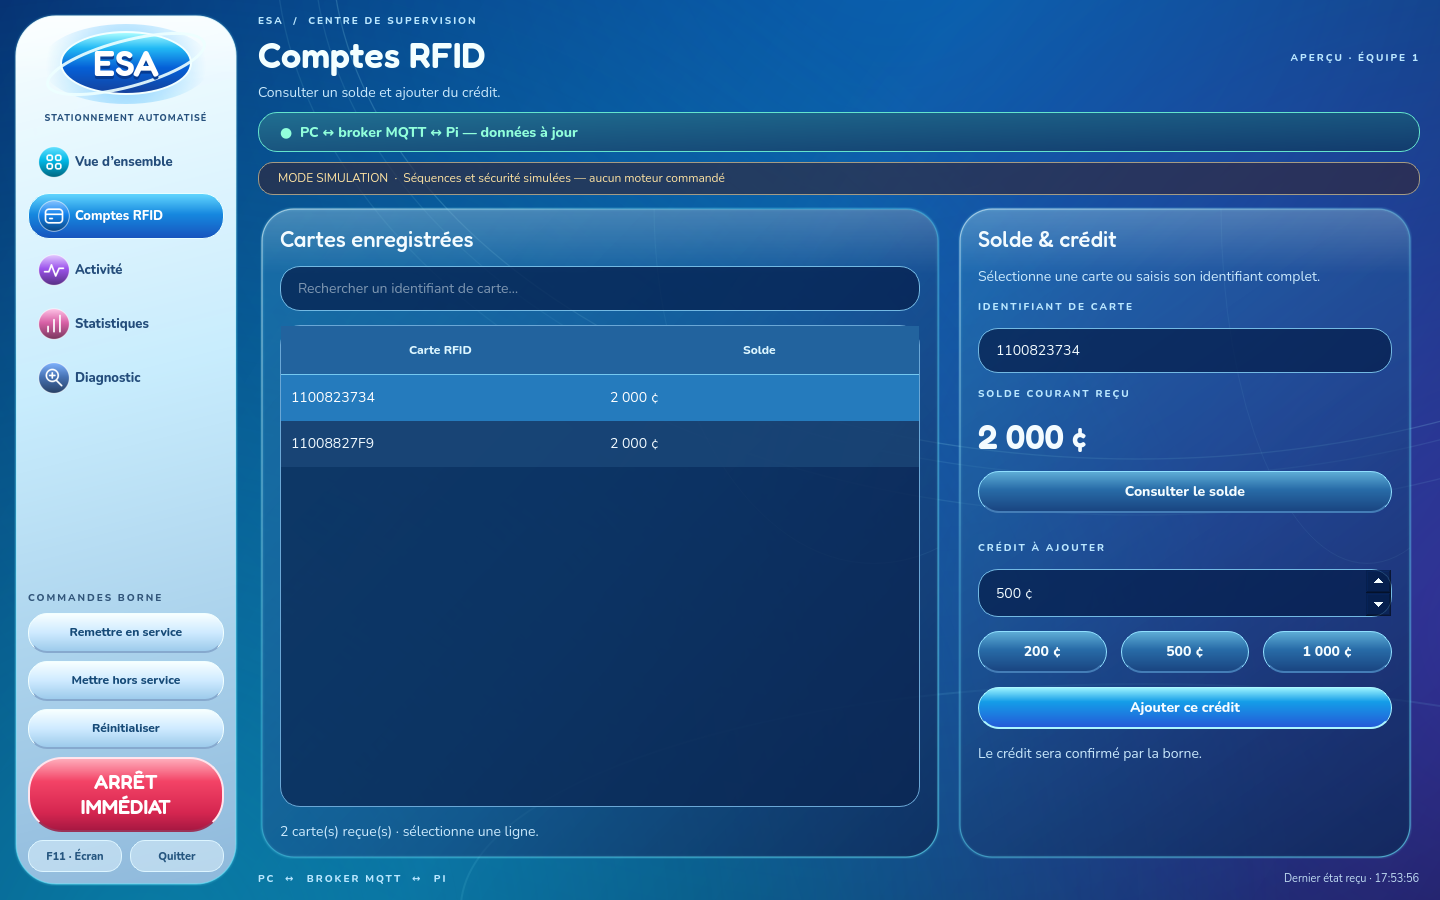
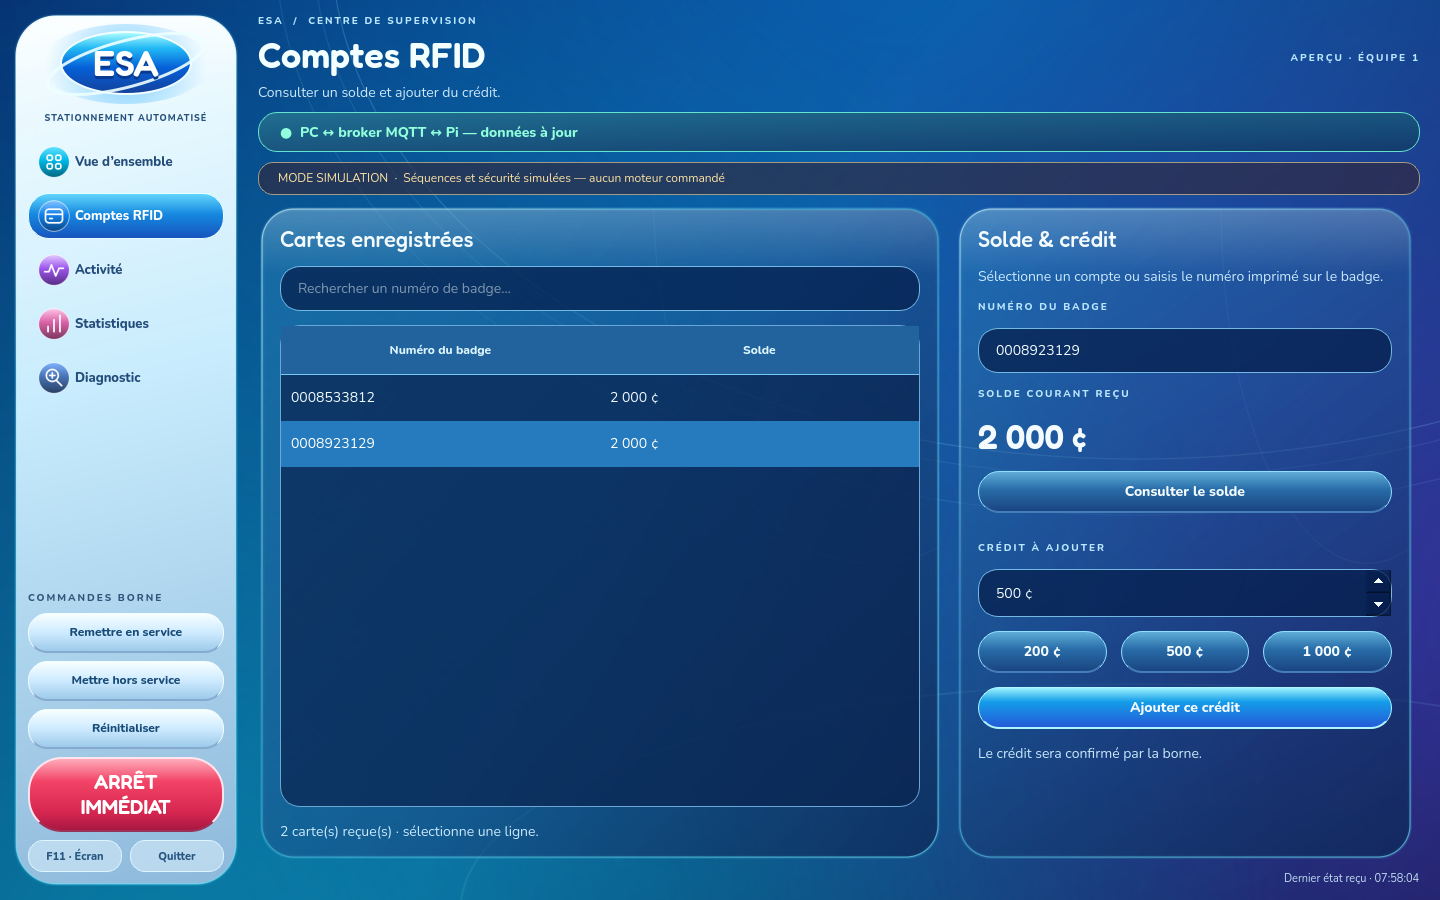
T13 : utiliser les numéros imprimés des badges dans la console PC

diff --git a/prog/pc/fenetre.py b/prog/pc/fenetre.py
@@ -12,6 +12,8 @@ from PyQt6.QtWidgets import (
     QTabWidget, QVBoxLayout, QWidget,
 )
 
+from rpi.modules.lecteur_nfc_rfid import numero_badge
+
 from pc.holographie import (EmblemeESA, FondConsole, PanneauHolographique,
                             charger_polices, icone_bulle)
 from pc.visuels import (ACTIONS, COULEURS, ETATS, PLACES, STYLE, CadranPlaces,
@@ -120,7 +122,6 @@ class FenetreSupervision(QMainWindow):
         self.message.hide()
         principal.addWidget(self.message)
         pied = QHBoxLayout()
-        pied.addWidget(etiquette("PC  ↔  BROKER MQTT  ↔  PI", "surTitre"))
         pied.addStretch()
         self.actualisation = etiquette("En attente du premier état", "petit")
         pied.addWidget(self.actualisation)
@@ -271,11 +272,11 @@ class FenetreSupervision(QMainWindow):
         ligne.setSpacing(18)
         liste, interieur = panneau("Cartes enregistrées")
         self.recherche_comptes = QLineEdit()
-        self.recherche_comptes.setPlaceholderText("Rechercher un identifiant de carte…")
-        self.recherche_comptes.setAccessibleName("Rechercher une carte")
+        self.recherche_comptes.setPlaceholderText("Rechercher un numéro de badge…")
+        self.recherche_comptes.setAccessibleName("Rechercher un numéro de badge")
         self.recherche_comptes.textChanged.connect(self._afficher_comptes)
         interieur.addWidget(self.recherche_comptes)
-        self.comptes = tableau(["Carte RFID", "Solde"])
+        self.comptes = tableau(["Numéro du badge", "Solde"])
         self.comptes.setMinimumHeight(260)
         self.comptes.horizontalHeader().setSectionResizeMode(0, QHeaderView.ResizeMode.Stretch)
         self.comptes.itemSelectionChanged.connect(self._choisir_carte)
@@ -285,12 +286,12 @@ class FenetreSupervision(QMainWindow):
         ligne.addWidget(liste, 3)
         recharge, interieur = panneau("Solde & crédit")
         recharge.setMinimumWidth(300)
-        interieur.addWidget(etiquette("Sélectionne une carte ou saisis son identifiant complet.", "secondaire", True))
-        interieur.addWidget(etiquette("IDENTIFIANT DE CARTE", "surTitre"))
+        interieur.addWidget(etiquette("Sélectionne un compte ou saisis le numéro imprimé sur le badge.", "secondaire", True))
+        interieur.addWidget(etiquette("NUMÉRO DU BADGE", "surTitre"))
         self.carte = QLineEdit()
-        self.carte.setMaxLength(64)  # Ne pas tronquer un identifiant trop long en carte valide.
-        self.carte.setPlaceholderText("10 caractères · ex. 11008827F9")
-        self.carte.setAccessibleName("Identifiant de carte RFID")
+        self.carte.setMaxLength(64)  # Ne pas tronquer un numéro trop long en numéro valide.
+        self.carte.setPlaceholderText("10 chiffres · ex. 0008923129")
+        self.carte.setAccessibleName("Numéro imprimé sur le badge")
         self.carte.textChanged.connect(self._carte_modifiee)
         interieur.addWidget(self.carte)
         interieur.addWidget(etiquette("SOLDE COURANT REÇU", "surTitre"))
@@ -415,8 +416,21 @@ class FenetreSupervision(QMainWindow):
     def basculer_plein_ecran(self):
         self.showNormal() if self.isFullScreen() else self.showFullScreen()
 
+    def _carte_saisie(self):
+        """Retrouve l'ID complet reçu du Pi, sans reconstruire de préfixe UART."""
+        numero = self.carte.text().strip()
+        if re.fullmatch(r"[0-9]{10}", numero) is None:
+            return None, "Numéro du badge requis : les 10 chiffres imprimés."
+        correspondances = [identifiant for identifiant in self._soldes
+                           if numero_badge(identifiant) == numero]
+        if not correspondances:
+            return None, "Ce numéro ne correspond à aucun compte reçu."
+        if len(correspondances) != 1:
+            return None, "Plusieurs comptes portent ce numéro : opération bloquée. Consulte le diagnostic."
+        return correspondances[0], ""
+
     def _carte_modifiee(self):
-        identifiant = self.carte.text().strip().upper()
+        identifiant, _ = self._carte_saisie()
         self.solde_selectionne.setText(centimes(self._soldes.get(identifiant)))
         self._actualiser_commandes()
         self._resultat_compte()
@@ -427,19 +441,22 @@ class FenetreSupervision(QMainWindow):
             self.carte.setText(lignes[0].data())
 
     def _afficher_comptes(self):
-        filtre = self.recherche_comptes.text().strip().upper()
-        soldes = [(carte, solde) for carte, solde in sorted(self._soldes.items()) if filtre in carte]
+        filtre = self.recherche_comptes.text().strip()
+        soldes = sorted((numero_badge(carte), carte, solde)
+                        for carte, solde in self._soldes.items()
+                        if filtre in numero_badge(carte))
         signature = (tuple(soldes), filtre)
         if signature == self._signature_comptes:
             return
         self._signature_comptes = signature
         selection = self.comptes.selectionModel().selectedRows(0)
-        identifiant = selection[0].data() if selection else None
+        identifiant = selection[0].data(Qt.ItemDataRole.UserRole) if selection else None
         self.comptes.blockSignals(True)
         self.comptes.setRowCount(len(soldes))
         self.comptes.clearSelection()
-        for ligne, (carte, solde) in enumerate(soldes):
-            cellule(self.comptes, ligne, 0, carte)
+        for ligne, (numero, carte, solde) in enumerate(soldes):
+            item = cellule(self.comptes, ligne, 0, numero)
+            item.setData(Qt.ItemDataRole.UserRole, carte)
             cellule(self.comptes, ligne, 1, centimes(solde))
             if carte == identifiant:
                 self.comptes.selectRow(ligne)
@@ -453,7 +470,8 @@ class FenetreSupervision(QMainWindow):
             bouton.setEnabled(actif and disponibilite.get("service", False))
         if not hasattr(self, "consulter"):
             return
-        valide = re.fullmatch(r"[0-9A-Fa-f]{10}", self.carte.text().strip()) is not None
+        identifiant, erreur = self._carte_saisie()
+        valide = identifiant is not None
         disponible = actif and disponibilite.get("T02", False)
         attente = self._credit_soumis or any(not d["termine"] and d["demande"]["commande"] == "AJOUTER_CREDIT"
                                            for d in self._vue["demandes"])
@@ -462,7 +480,7 @@ class FenetreSupervision(QMainWindow):
         self.aide_compte.setText("Données à jour requises pour envoyer une demande." if not actif else
                                "La gestion des comptes est indisponible sur la borne." if not disponible else
                                "Crédit en attente. Consulte Activité pour retrouver la demande." if attente else
-                               "Identifiant requis : 10 caractères hexadécimaux." if not valide else
+                               erreur if not valide else
                                "Le crédit sera confirmé par la borne.")
         if hasattr(self, "reprendre"):
             self._actualiser_reprise()
@@ -471,7 +489,10 @@ class FenetreSupervision(QMainWindow):
         bouton = self.crediter if action == "AJOUTER_CREDIT" else self.consulter
         if not bouton.isEnabled():
             return
-        params = {"id_uart": self.carte.text().strip().upper()}
+        identifiant, _ = self._carte_saisie()
+        if identifiant is None:
+            return
+        params = {"id_uart": identifiant}
         if action == "AJOUTER_CREDIT":
             params["montant_centimes"] = self.montant.value()
             self._credits_avant = {d["demande"]["id_commande"] for d in self._vue["demandes"]}
@@ -510,7 +531,7 @@ class FenetreSupervision(QMainWindow):
         details = ["Référence : " + demande["id_commande"]]
         params = demande.get("parametres") or {}
         if params.get("id_uart"):
-            details.append("Carte : " + params["id_uart"])
+            details.append("Badge : " + numero_badge(params["id_uart"]))
         if "montant_centimes" in params:
             details.append("Crédit demandé : " + centimes(params["montant_centimes"]))
         if resultat:
@@ -526,8 +547,9 @@ class FenetreSupervision(QMainWindow):
             self.pont.requete.emit("REPRENDRE_DEMANDE", {"id_commande": self._selection})
 
     def _resultat_compte(self):
-        carte = self.carte.text().strip().upper()
-        entree = next((d for d in self._vue["demandes"] if d["demande"].get("parametres", {}).get("id_uart") == carte), None)
+        carte, _ = self._carte_saisie()
+        entree = next((d for d in self._vue["demandes"]
+                       if carte is not None and d["demande"].get("parametres", {}).get("id_uart") == carte), None)
         texte, couleur = resultat_lisible(entree["reponse"]) if entree else ("", "neutre")
         self.resultat_compte.setText(texte)
         ton(self.resultat_compte, couleur)
@@ -578,7 +600,8 @@ class FenetreSupervision(QMainWindow):
             label.setText(str(inconnus) if cle == "INCONNU" else ("—" if inconnus == 14 else str(valeurs.count(cle))))
         self._soldes = etat.get("soldes") or {}
         self._afficher_comptes()
-        self.solde_selectionne.setText(centimes(self._soldes.get(self.carte.text().strip().upper())))
+        identifiant, _ = self._carte_saisie()
+        self.solde_selectionne.setText(centimes(self._soldes.get(identifiant)))
         self.etat_comptes.setText("Comptes indisponibles." if etat.get("soldes") is None else
                                   f"{len(self._soldes)} carte(s) reçue(s) · sélectionne une ligne." + (" Données périmées." if not frais else ""))
         if self._credit_soumis and any(d["demande"]["commande"] == "AJOUTER_CREDIT" and

diff --git a/prog/tests/test_console_pc_t13.py b/prog/tests/test_console_pc_t13.py
@@ -71,16 +71,17 @@ class TestsConsolePC(unittest.TestCase):
         self.app.processEvents()
         rectangle = f.comptes.visualItemRect(f.comptes.item(1, 0))
         QTest.mouseClick(f.comptes.viewport(), Qt.MouseButton.LeftButton, pos=rectangle.center())
-        self.assertEqual(f.carte.text(), "11008827F9")
+        self.assertEqual(f.carte.text(), "0008923129")
         self.assertEqual(f.solde_selectionne.text(), "2 500 ¢")
         self.vue["etat"]["soldes"]["11008827F9"] = 3000
         f.actualiser(self.vue)
-        self.assertEqual(f.carte.text(), "11008827F9")
+        self.assertEqual(f.carte.text(), "0008923129")
         self.assertEqual(f.solde_selectionne.text(), "3 000 ¢")
         self.assertEqual(len(f.comptes.selectionModel().selectedRows()), 1)
-        f.recherche_comptes.setText("827f9")
+        f.recherche_comptes.setText("8923")
         self.assertEqual(f.comptes.rowCount(), 1)
-        self.assertEqual(f.comptes.item(0, 0).text(), "11008827F9")
+        self.assertEqual(f.comptes.item(0, 0).text(), "0008923129")
+        self.assertEqual(f.comptes.item(0, 0).data(Qt.ItemDataRole.UserRole), "11008827F9")
 
     def test_identifiant_et_credit_double_clic_avec_vue_ancienne(self):
         f = self.fenetre
@@ -88,9 +89,9 @@ class TestsConsolePC(unittest.TestCase):
         self.assertFalse(f.consulter.isEnabled())
         f.crediter.click()
         self.assertEqual(self.requetes, [])
-        f.carte.setText("11008827F9A")
+        f.carte.setText("00089231290")
         self.assertFalse(f.crediter.isEnabled())
-        f.carte.setText("11008827f9")
+        f.carte.setText("0008923129")
         f.montant.setValue(525)
         f.crediter.click()
         # Le prochain instantané peut précéder l'insertion dans le journal.
@@ -109,9 +110,59 @@ class TestsConsolePC(unittest.TestCase):
         self.assertTrue(f.crediter.isEnabled())
         self.assertIn("Crédit ajouté", f.resultat_compte.text())
 
+    def test_numero_imprime_retrouve_l_id_recu_sans_inventer_de_prefixe(self):
+        f = self.fenetre
+        self.vue["etat"]["soldes"] = {"22008827F9": 700}
+        f.actualiser(self.vue)
+        self.assertEqual(f.comptes.item(0, 0).text(), "0008923129")
+        f.carte.setText("0008923129")
+        self.assertEqual(f.solde_selectionne.text(), "700 ¢")
+        f.consulter.click()
+        self.assertEqual(self.requetes, [("CONSULTER_SOLDE", {"id_uart": "22008827F9"})])
+
+    def test_numero_inconnu_ou_ambigu_ne_credite_aucun_compte(self):
+        f = self.fenetre
+        for numero in ("0008916781", "11008827F9", "1100823734", "8923129", "０００８９２３１２９"):
+            f.carte.setText(numero)
+            self.assertFalse(f.consulter.isEnabled(), numero)
+            self.assertFalse(f.crediter.isEnabled(), numero)
+            f.crediter.click()
+        f.carte.setText("0008923129")
+        self.assertTrue(f.crediter.isEnabled())
+        self.vue["etat"]["soldes"]["22008827F9"] = 600
+        f.actualiser(self.vue)
+        self.assertFalse(f.crediter.isEnabled())
+        self.assertIn("Plusieurs comptes", f.aide_compte.text())
+        self.assertEqual(f.solde_selectionne.text(), "—")
+        f.comptes.selectRow(1)
+        f.crediter.click()
+        self.assertFalse(f.consulter.isEnabled())
+        self.assertEqual(self.requetes, [])
+        self.vue["etat"]["soldes"] = {}
+        f.actualiser(self.vue)
+        self.assertFalse(f.crediter.isEnabled())
+        self.assertIn("aucun compte", f.aide_compte.text())
+
+    def test_details_et_resultat_restent_lies_au_compte_complet(self):
+        f = self.fenetre
+        f.carte.setText("0008923129")
+        self.vue["demandes"] = [demande("a")]
+        f.actualiser(self.vue)
+        f.demandes.selectRow(0)
+        self.assertIn("Badge : 0008923129", f.details_demande.text())
+        self.assertNotIn("11008827F9", f.details_demande.text())
+        self.assertIn("Crédit ajouté", f.resultat_compte.text())
+        f.carte.setText("0008533812")
+        self.assertEqual(f.resultat_compte.text(), "")
+        self.vue["demandes"] = [{"demande": {"id_commande": "t13:demande-test", "commande": "METTRE_HORS_SERVICE", "parametres": {}},
+                                "reponse": {"phase": "TERMINEE", "code": "HORS_SERVICE", "donnees": {}}, "termine": True}]
+        f.carte.clear()
+        f.actualiser(self.vue)
+        self.assertEqual(f.resultat_compte.text(), "")
+
     def test_coupure_interdit_envoi_et_laisse_consulter_les_pages(self):
         f = self.fenetre
-        f.carte.setText("11008827F9")
+        f.carte.setText("0008923129")
         for statut in ("PERIMEES", "DECONNECTE"):
             f.actualiser(dict(self.vue, statut=statut))
             for index, bouton in enumerate(f.navigation):
@@ -146,7 +197,7 @@ class TestsConsolePC(unittest.TestCase):
 
     def test_erreur_credit_libere_la_saisie_sans_relancer_de_demande(self):
         f = self.fenetre
-        f.carte.setText("11008827F9")
+        f.carte.setText("0008923129")
         f.crediter.click()
         self.pont.erreur.emit("Journal indisponible")
         self.assertIn("Journal indisponible", f.message.text())

diff --git a/prog/tests/test_t13_broker.py b/prog/tests/test_t13_broker.py
@@ -136,7 +136,7 @@ class TestsBrokerT13(BancComptes):
         fenetre.show()
         pont.thread.start()
         fenetre.afficher_page(1)
-        fenetre.carte.setText(JASON)
+        fenetre.carte.setText("0008923129")  # Numéro imprimé ; le Pi doit recevoir JASON.
         self.attendre(lambda: fenetre.crediter.isEnabled(), app=app)
         fenetre.crediter.click()
         self.attendre(lambda: self.solde() == 2500 and fenetre.crediter.isEnabled(), app=app)

diff --git a/prog/pc/INTERFACE_PC.md b/prog/pc/INTERFACE_PC.md
@@ -33,7 +33,7 @@ au commit `797fda3`.
 | Page | Informations et actions |
 | --- | --- |
 | Vue d'ensemble | État de service, 14 places réparties en deux niveaux, présence IR distincte de l'état logique, anomalies et dernière demande |
-| Comptes RFID | Filtre par identifiant, sélection d'une carte, solde reçu, consultation et crédit en centimes entiers |
+| Comptes RFID | Numéro imprimé sur le badge, recherche et sélection d’un compte, solde reçu, consultation et crédit en centimes entiers |
 | Activité | Demandes PC, résultat en cours ou final, détail de la référence, renvoi avec le même ID ; onglet transactions de la borne |
 | Statistiques | État d'attente explicite, puis informations réellement transmises par la borne |
 | Diagnostic | Configuration du broker, disponibilités et instantané technique reçu en lecture seule |
@@ -51,8 +51,23 @@ places deviennent neutres. Les données et le journal restent consultables,
 mais les envois sont désactivés jusqu'à la resynchronisation. Le bandeau
 distingue la perte du broker et l'attente du Pi avec broker encore connecté.
 
-Le crédit nécessite exactement dix caractères hexadécimaux. Un identifiant
-trop long n'est pas tronqué en identifiant valide. Dès le clic, une protection
+La liste, la recherche, la saisie et les détails des demandes affichent le
+**numéro décimal imprimé sur le badge**, sur dix chiffres avec ses zéros initiaux.
+Les correspondances déjà validées dans [T02](../rpi/README_COMPTES.md) sont :
+
+| Compte | Numéro affiché et saisi | ID complet conservé dans les échanges |
+| --- | --- | --- |
+| Jason Duval | `0008923129` | `11008827F9` |
+| Lucia Caminos | `0008533812` | `1100823734` |
+
+La console réutilise la fonction pure `numero_badge()` du lecteur RFID ; elle
+n'ouvre ni UART ni GPIO. Elle retrouve l'ID complet parmi les comptes reçus du
+Pi, sans deviner de préfixe. Un numéro inconnu ou correspondant à plusieurs
+comptes ne peut pas être crédité. L'ID complet reste la clé du compte côté Pi
+et du journal ; aucun compte ni solde n'est migré. Le checksum de la trame
+RFID est déjà retiré avant la transmission de cet ID.
+
+Un numéro trop long n'est pas tronqué en numéro valide. Dès le clic, une protection
 locale bloque un second crédit pendant le passage vers le journal du
 travailleur. Les protections durables et l'idempotence restent dans le client
 et le Pi. Une acceptation s'affiche « En cours », jamais « Terminée ».
@@ -74,6 +89,8 @@ compteurs et les places deviennent neutres lorsque les données sont périmées.
 Les formes, pictogrammes et reflets sont dessinés par Qt. Aucun extrait du film,
 image téléchargée ou accès réseau supplémentaire n'est nécessaire au lancement.
 Le décor est statique ; il n'ajoute pas de boucle d'animation au traitement MQTT.
+Le rappel « PC ↔ broker MQTT ↔ Pi » a été retiré du pied de page. Le bandeau
+de connexion reste présent en haut.
 
 Captures du vrai code Qt avec des **états de test hors réseau**. Ces états ne
 sont pas injectés dans l'application normale.
@@ -89,12 +106,13 @@ simulation dans l'état hors service.
 
 ## Validation et limites
 
-Au 25 novembre 2026 : **212 tests réussis, aucun ignoré**, avec Qt hors écran et
+Au 26 novembre 2026 : **215 tests réussis, aucun ignoré**, avec Qt hors écran et
 Mosquitto local. La suite couvre notamment le vrai parcours de crédit MQTT,
+la saisie du numéro imprimé avec crédit du compte UART correspondant,
 le renvoi sans double crédit, les coupures/reconnexions et les commandes de
 service simulées. Les nouveaux essais de console vérifient aussi le plein
 écran au lancement, F11, Quitter, la saisie RFID, le double clic, la sélection
-conservée, les états inconnus et les pages sans données.
+conservée, les numéros de badges inconnus ou ambigus, les états inconnus et les pages sans données.
 
 ```bash
 ESA_TEST_BROKER=1 QT_QPA_PLATFORM=offscreen \
